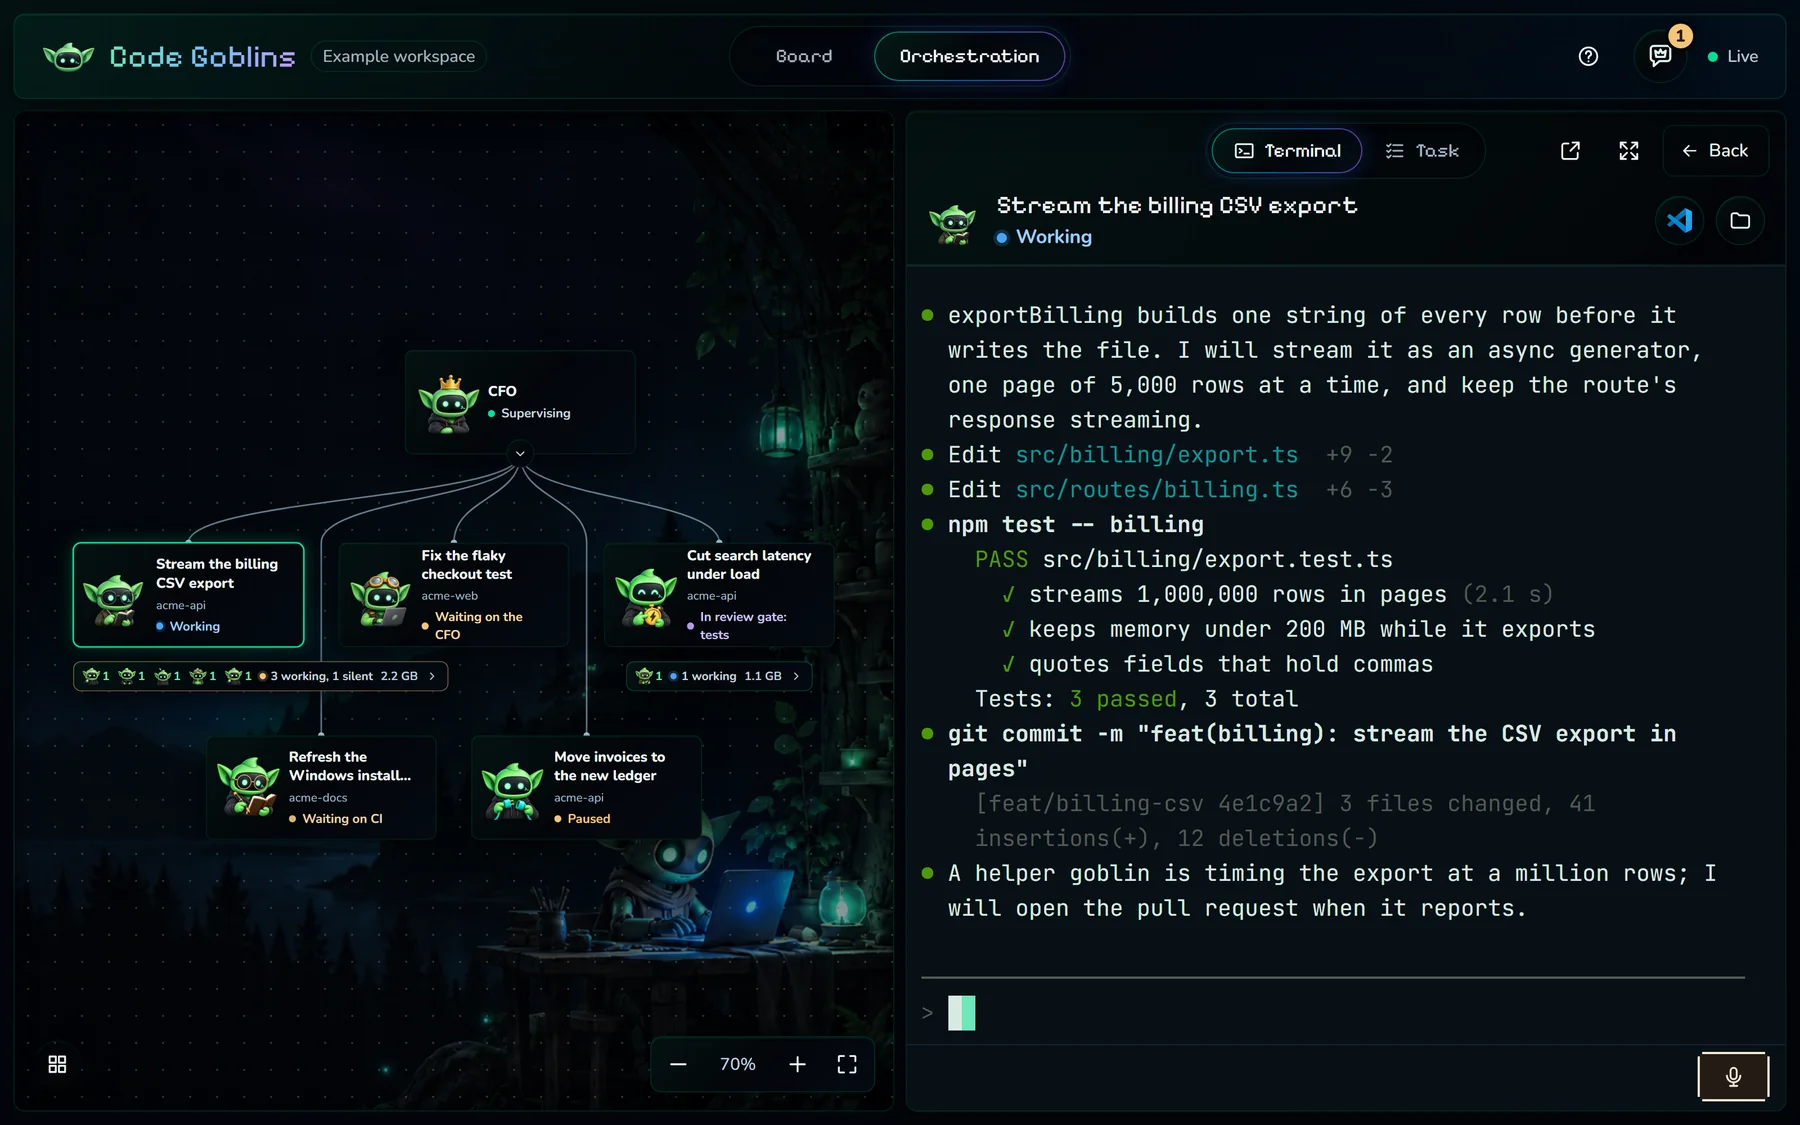
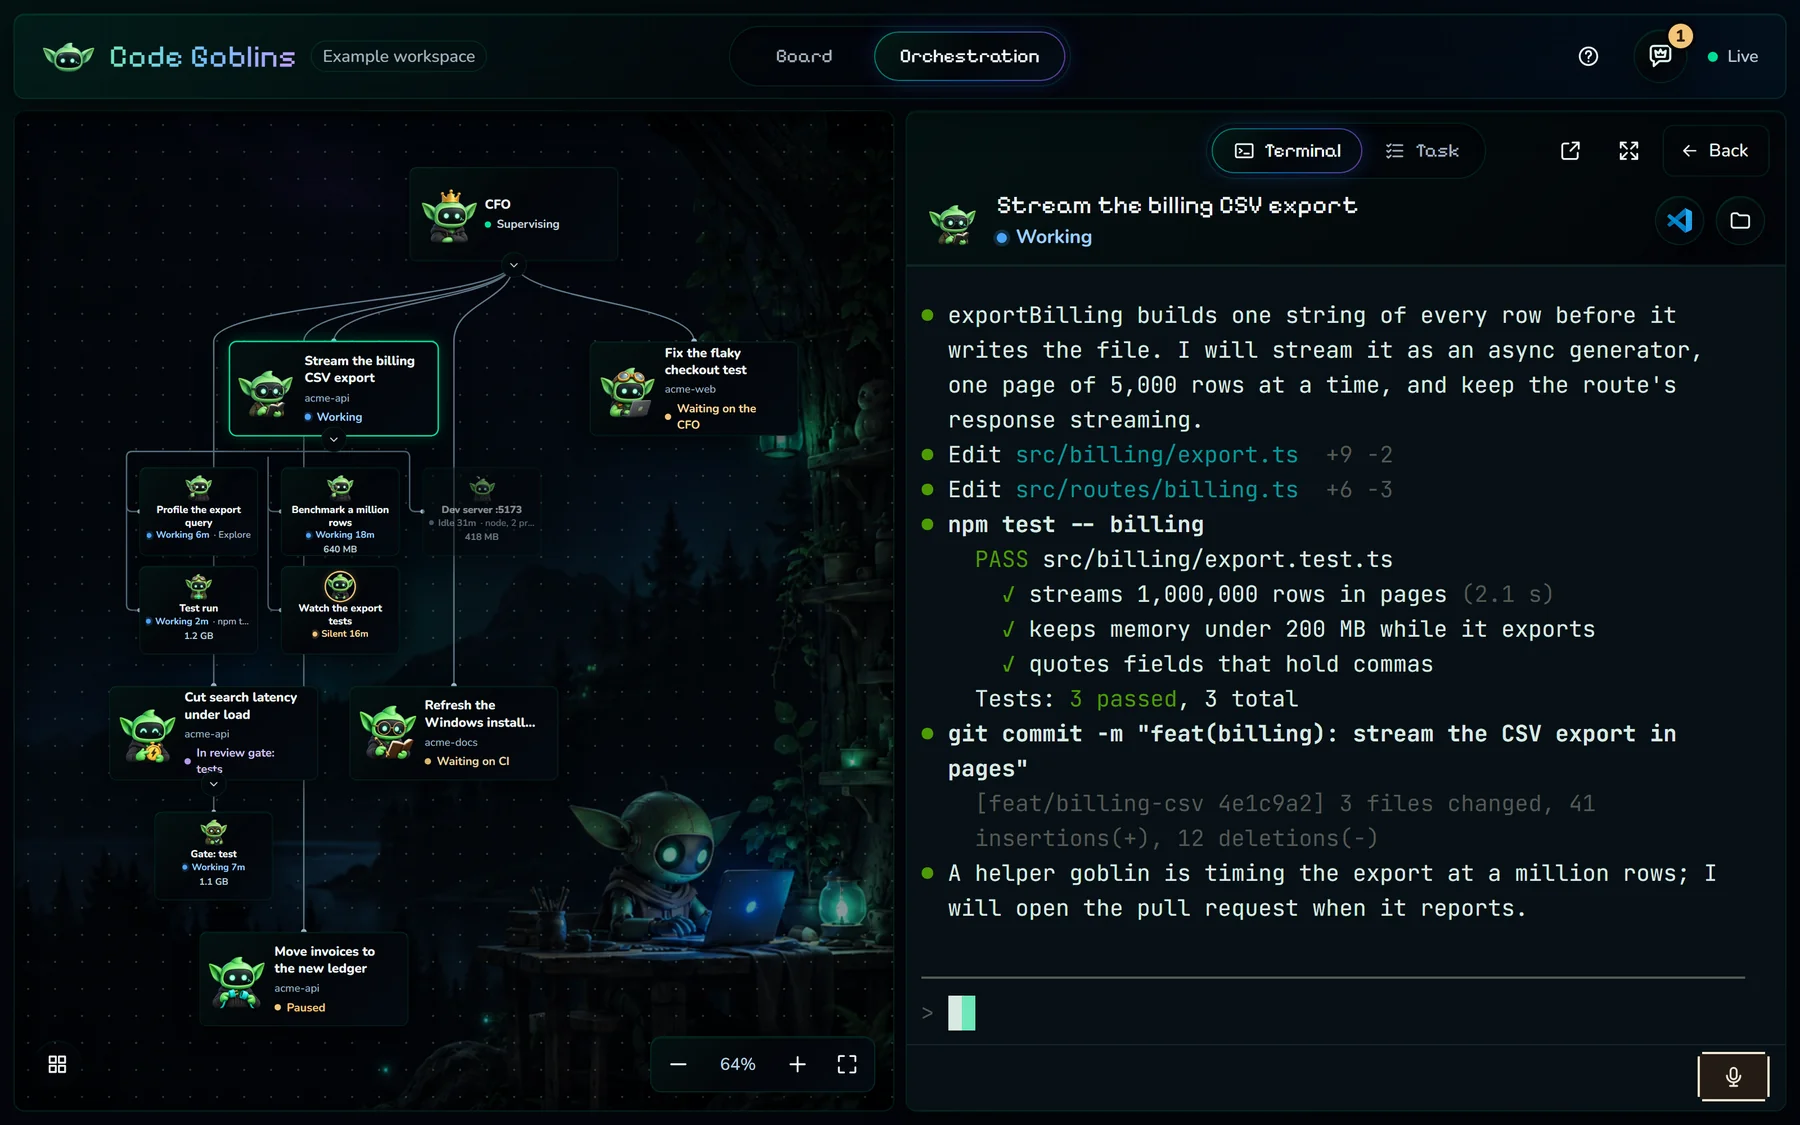
docs(board): describe and show the branches and the map-like canvas
The board docs and the README said a goblin's children open from a count
and that the canvas scrolls and stops at 35 percent; they now say the
children hang on branches the chevron folds, the canvas moves and zooms
like a map down to 10 percent, and Arrange wraps a family into the rows its
canvas shows largest. The two canvas pictures are retaken with the README
capture tooling on the same example fleet at 1600 by 1000 at 2x.

diff --git a/docs/native-board.md b/docs/native-board.md
@@ -333,14 +333,17 @@ Replayed, stale, reparenting, or cyclic input cannot silently change the tree.
 Unknown and retired parents remain visible, and task dependencies are rendered separately from spawned/delegated links.
 Unreported child models remain unreported even when their owning task declares a model and effort.
 Dragging a card or using Alt plus an arrow key changes only its saved browser position; connectors retain their reported parent identity.
-The tree fits and centers itself in the visible canvas, scaled up to fill it but never past 125% and never below 35%, and refits whenever the panel opens or closes, the window resizes, a goblin appears or leaves, or a dragged card is dropped.
-Zooming, or panning a view that actually scrolls, stops the automatic fit until Fit is pressed, which restores it.
-A family of more than three leaf goblins wraps into two rows, the second offset by half a card so its connectors drop through gaps in the first instead of behind a sibling.
+The tree fits and centers itself in the visible canvas, scaled up to fill it but never past 125% and down as far as 10%, so the whole of any tree shows, and refits whenever the panel opens or closes, the window resizes, a goblin appears or leaves, or a dragged card is dropped.
+The canvas moves and zooms like a map instead of scrolling: dragging it, from empty space, a line or a baby goblin, moves the view, and the wheel or a trackpad pinch zooms between 10% and 150% about the point under the pointer; the plus and minus buttons and keys zoom about the middle.
+Moving or zooming the view stops the automatic fit until Fit, or the 0 key, restores it.
+A family of goblins with no cards under them wraps into the rows that show it largest in the canvas's shape: one row in a wide canvas, more in a tall, narrow one such as the canvas beside an open panel.
+Each row after the first is offset, by half a card where it can be, so its connectors drop clear of every line that runs down from a goblin above, its middle or a spine of its branches, and so never read as that goblin's; a connector to a later row drops straight from its parent behind the cards and branches between.
+A goblin whose branches are wider than its card takes as many columns as they need, so no card or branch covers another.
 A goblin waiting on another sits in the row under the one it waits on, half a card over, and the dashed line between them runs straight down what the two cards share; a sibling with nothing under it gives up that place and takes the nearest free one, and a chain or a cycle of waits keeps its family places.
 Only a card the Overlord moves is saved, so the canvas keeps arranging every card he has not placed himself.
 A card he placed stays where he put it, and an arranged card whose place it covers takes the nearest free place, along its row first and then the rows below, so the canvas never arranges a card onto another.
 A connector pulses for a few seconds when its goblin reports a new status line or files a wake record; a report that lands while the board is hidden never plays later.
-Arrange resets positions, and storage failures remain visible.
+Arrange resets positions and opens every folded card, then frames the tree again; storage failures remain visible.
 Narrow screens use a collapsible nested list that names the actual parent when indentation is capped.
 
 ### The family tree
@@ -356,9 +359,11 @@ Each also carries when its source last changed and when it was read.
 Each child is drawn as a baby goblin whose prop says its kind (a magnifying glass for a sub-agent, a laptop for a shell, binoculars for a monitor, glasses and a shield for the gate, an antenna for a dev server, goggles for a test run, a hard hat for a build, a tablet for a browser), and its tip names it.
 A [helper goblin](../AGENTS.md#helper-goblins) the supervisor started for a goblin is a child of that goblin's tree too, drawn with the sub-agent's head and named Helper goblin in its tip: its title, its own tree's memory, and where its own records say it stands, working or silent by its own activity, waiting while it is paused or asks its parent, done once it reported done and failed once it reported failure.
 A helper its parent's tree holds is not drawn again as a card of its own on the canvas or in the lineage list, as a held sub-agent is not; one no tree holds, such as a paused goblin's, keeps its card and hangs under its parent's card, the parent's session or, with none reported, its task, never under the CFO, and every helper's card on the board says whose helper it is.
-On the canvas a goblin's running children are collapsed to a count under its card, the same rounded rectangle as the rows it opens: a head and a number for each kind still running, how many work, are silent or idle, and their memory; pressing it opens each child on a branch under the card, where idle ones are dimmed, and the rows below make room.
-A finished child is not drawn there, so a goblin whose children have all finished shows no count; its panel still lists them.
-At phone width the lineage list opens them the same way under the goblin's card.
+On the canvas a goblin's running children hang on branches under its card, each a baby goblin with what it does, its state and for how long, and its memory, idle ones dimmed, and the rows below make room.
+They hang in about as many columns as rows, up to four columns, each column on a spine with a twig to each child, so a big family grows down rather than across.
+The chevron under the card folds them, with any cards under it, to their count, the same rounded rectangle as the baby goblins: a head and a number for each kind still running, how many work, are silent or idle, and their memory; pressing the count opens them again.
+A finished child is not drawn there, so a goblin whose children have all finished shows neither; its panel still lists them.
+At phone width the lineage list shows the count under the goblin's card, and pressing it opens each child on a rail.
 The goblin's panel opens with What's working: its counts, then one row per running child with what it does, its state, for how long and its memory, a silent child's last line, the finished ones folded away, and when it was read.
 A goblin's card counts what runs under it and names the child that has gone silent longest with its last line.
 None of it wakes the CFO: the monitor's stale and idle rules read their progress evidence through the same reader, so a goblin counts as working while any child works, and the board and the wakes never disagree about it.

diff --git a/README.md b/README.md
@@ -350,7 +350,7 @@ The header switches between two views, one at a time, each with a contextual pan
   The CFO is pinned above the columns in a plain bar that says how many goblins it supervises, with its terminal icon. While something waits on you **Open Command Center** appears on the bar and glows, with how many items wait; the bar says none of what they are.
   While no CFO runs the board shows the first-run screen instead; **Open the board without a CFO** keeps the goblins in view, and the bar then offers **Start the CFO**.
   A goblin's question waits on the CFO, who answers it or publishes the decision he needs from you.
-- **Orchestration** is the live family tree: the CFO above its goblins and any child sessions they reported. The panel shows the selected session's real native terminal and starts on the CFO, whose terminal is shown from its host when the CFO runs in a native terminal. Dragging cards, panning, zooming, **Fit** and **Arrange** change only the layout, because parentage comes from native session evidence. A goblin waiting on another sits under it, joined by a dashed line; only a card you drag keeps its place, and the rest arrange themselves around it without covering one another. A brief pulse along a connector marks a real accepted message. Under each goblin, what it runs (its sub-agents, background shells and monitors, its jobs of processes with their memory, and its gate run) shows as baby goblins, collapsed to a count until you open it; the goblin's panel lists them under **What's working**, and its card names a child gone silent with its last line. None of it wakes the CFO.
+- **Orchestration** is the live family tree: the CFO above its goblins and any child sessions they reported. The panel shows the selected session's real native terminal and starts on the CFO, whose terminal is shown from its host when the CFO runs in a native terminal. Dragging a card or the canvas, zooming with the wheel where the pointer is, **Fit** and **Arrange** change only the layout, because parentage comes from native session evidence; Arrange lays the tree out to the canvas's shape, so the whole of it fits a narrow window. A goblin waiting on another sits under it, joined by a dashed line; only a card you drag keeps its place, and the rest arrange themselves around it without covering one another. A brief pulse along a connector marks a real accepted message. Under each goblin, what it runs (its sub-agents, background shells and monitors, its jobs of processes with their memory, and its gate run) hangs on branches as baby goblins, which the chevron under its card folds to a count; the goblin's panel lists them under **What's working**, and its card names a child gone silent with its last line. None of it wakes the CFO.
 
 <p align="center">
   <img src="docs/images/orchestration.webp" alt="Orchestration view over the goblin workshop at night: the CFO above five goblins in three repositories, a count of what runs under each goblin that runs anything, and the selected goblin's live native terminal in the right panel" width="900" />
